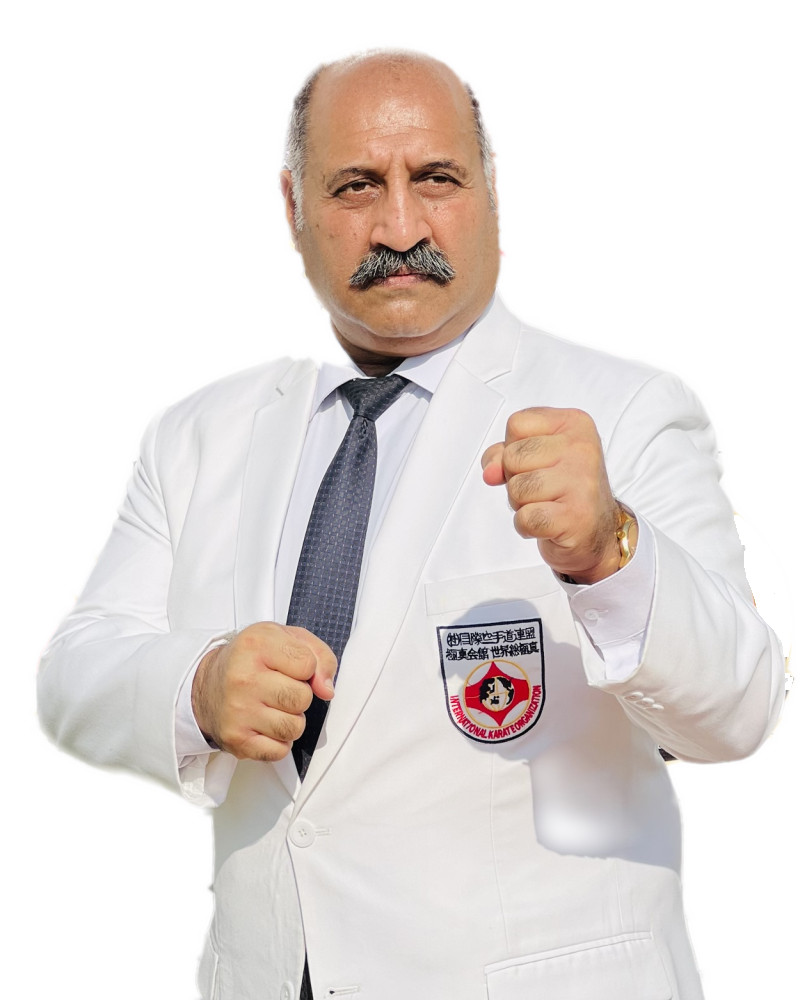
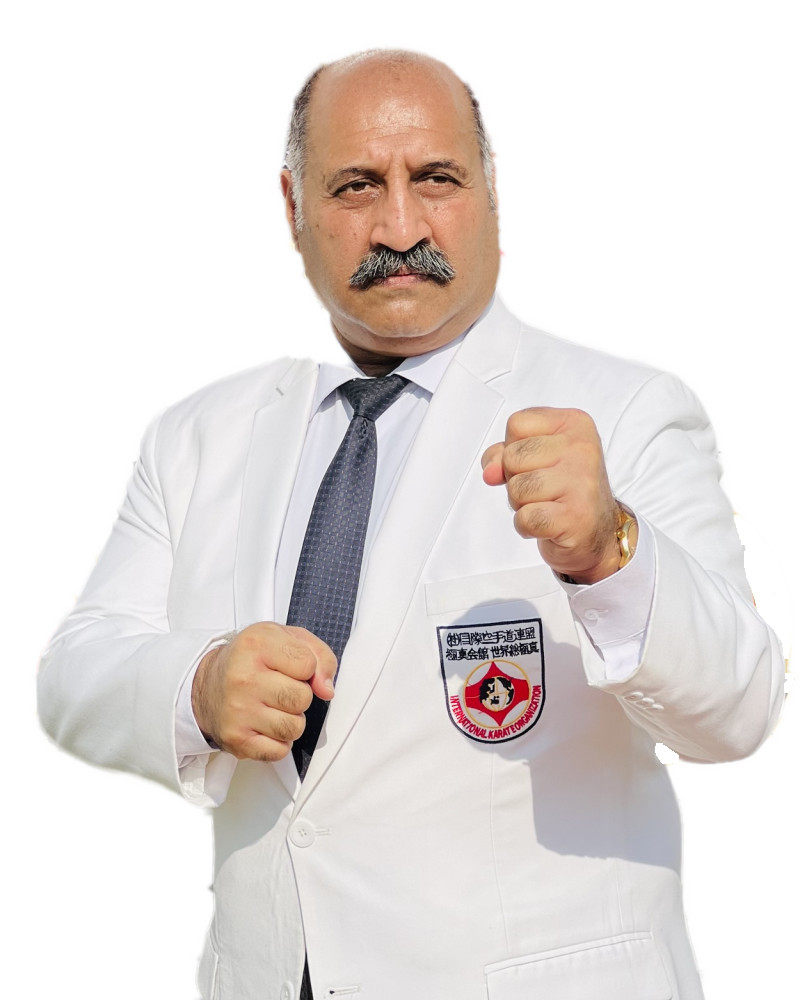
Home hero: use the white-blazer fist-pose photo; clean cut-out
Claude-Session: https://claude.ai/code/session_01MQwV51xR5x2BYN7Mowqzaq

diff --git a/rajamartialarts/index.html b/rajamartialarts/index.html
@@ -42,7 +42,7 @@
       <div><a class="btn btn--red" href="#trial">Start your journey <svg viewBox="0 0 24 24" aria-hidden="true"><path d="M5 12h14M13 6l6 6-6 6"/></svg></a></div>
     </div>
     <div class="hero__art">
-      <div class="ph ph--photo" data-file="shihan-home.jpg"><img src="assets/img/shihan-home.jpg" alt="Shihan Raja Khalid Mehmood Janjua in his Kyokushin gi and black belt, arms crossed" loading="lazy"></div>
+      <div class="ph ph--photo ph--hero" data-file="hero-home.jpg"><img src="assets/img/hero-home.jpg" alt="Kyokushin instructor in a white blazer with both fists raised in a karate guard" loading="lazy"></div>
       <div class="kanji" aria-hidden="true">極真会</div>
     </div>
   </div>

diff --git a/rajamartialarts/assets/css/styles.css b/rajamartialarts/assets/css/styles.css
@@ -796,3 +796,7 @@ a.other .ph > img{object-position:50% 12%}
 .prof-hero__grid .prof-photo{border:1px solid var(--line)}
 @media(max-width:700px){.g1 .coach-lg{grid-template-columns:1fr} .g1 .coach-lg .ph{max-width:280px}}
 @media(max-width:560px){.coach-sm{grid-template-columns:1fr} .coach-sm .ph{max-width:240px}}
+
+/* home hero: pure-white cut-out portrait, shown in full (no edge fade) */
+.home-hero .ph--hero{aspect-ratio:4/5}
+.home-hero .ph--hero > img{-webkit-mask-image:none; mask-image:none; object-position:50% 100%}

diff --git a/rajamartialarts/tools/build.py b/rajamartialarts/tools/build.py
@@ -154,7 +154,7 @@ home = f'''
       <div><a class="btn btn--red" href="#trial">Start your journey {ARROW}</a></div>
     </div>
     <div class="hero__art">
-      {ph("shihan-home.jpg","ph--photo","Shihan Raja Khalid Mehmood Janjua in his Kyokushin gi and black belt, arms crossed")}
+      {ph("hero-home.jpg","ph--photo ph--hero","Kyokushin instructor in a white blazer with both fists raised in a karate guard")}
       <div class="kanji" aria-hidden="true">極真会</div>
     </div>
   </div>
